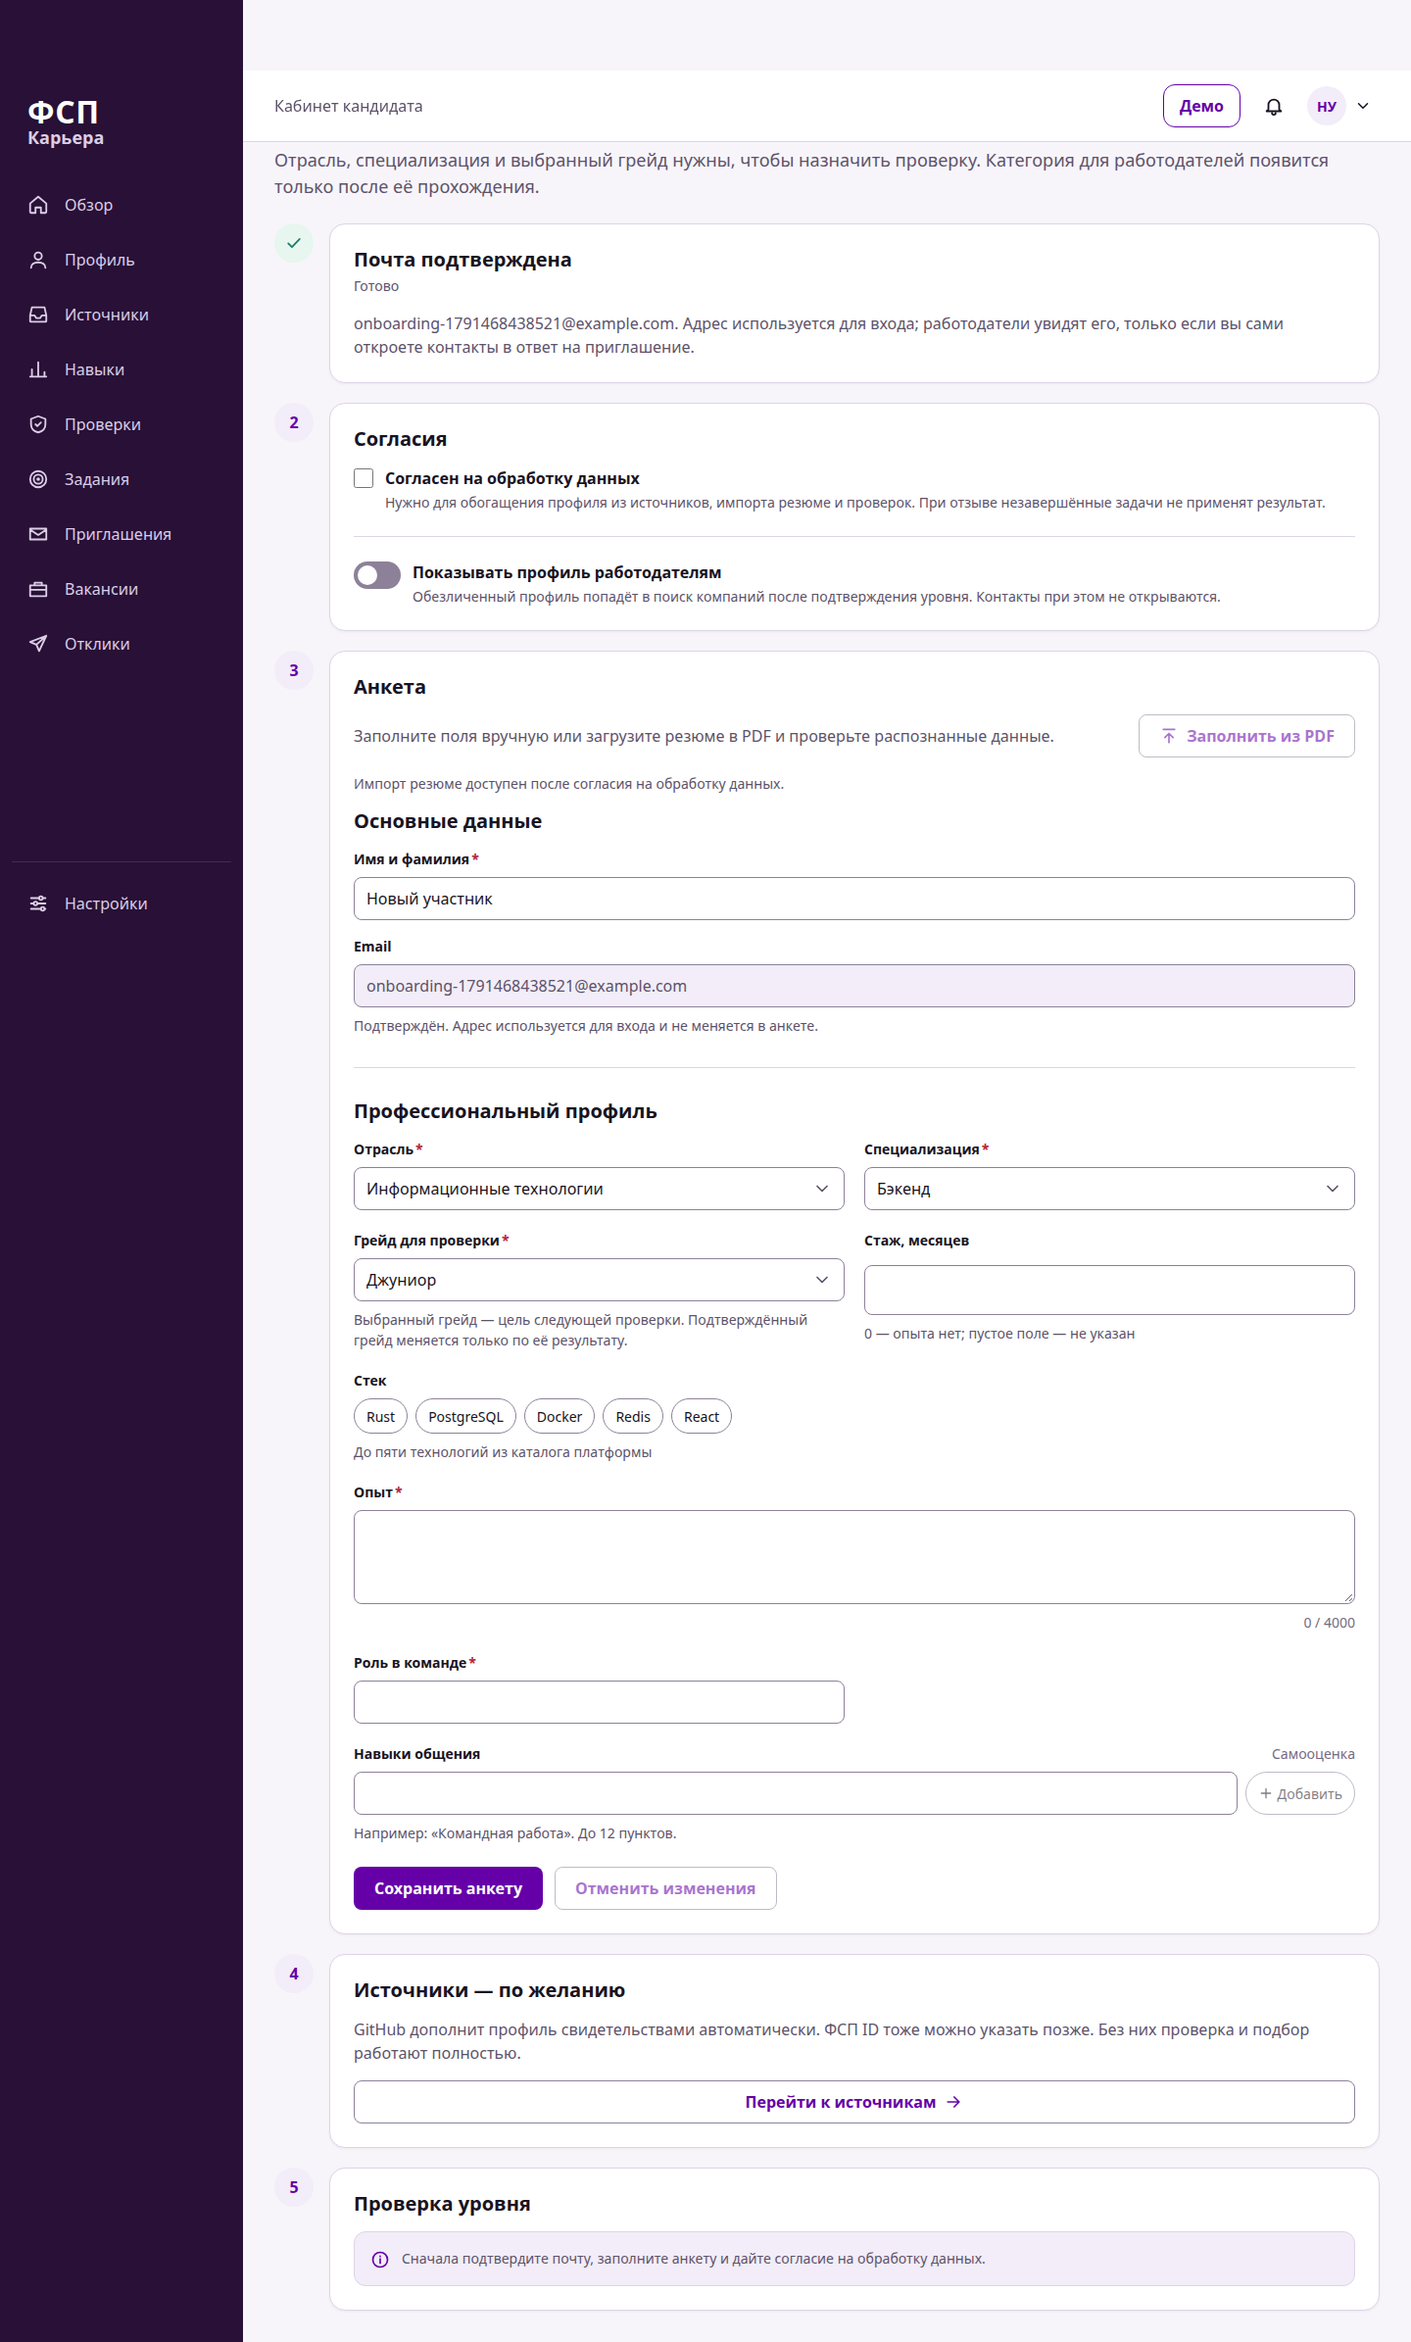
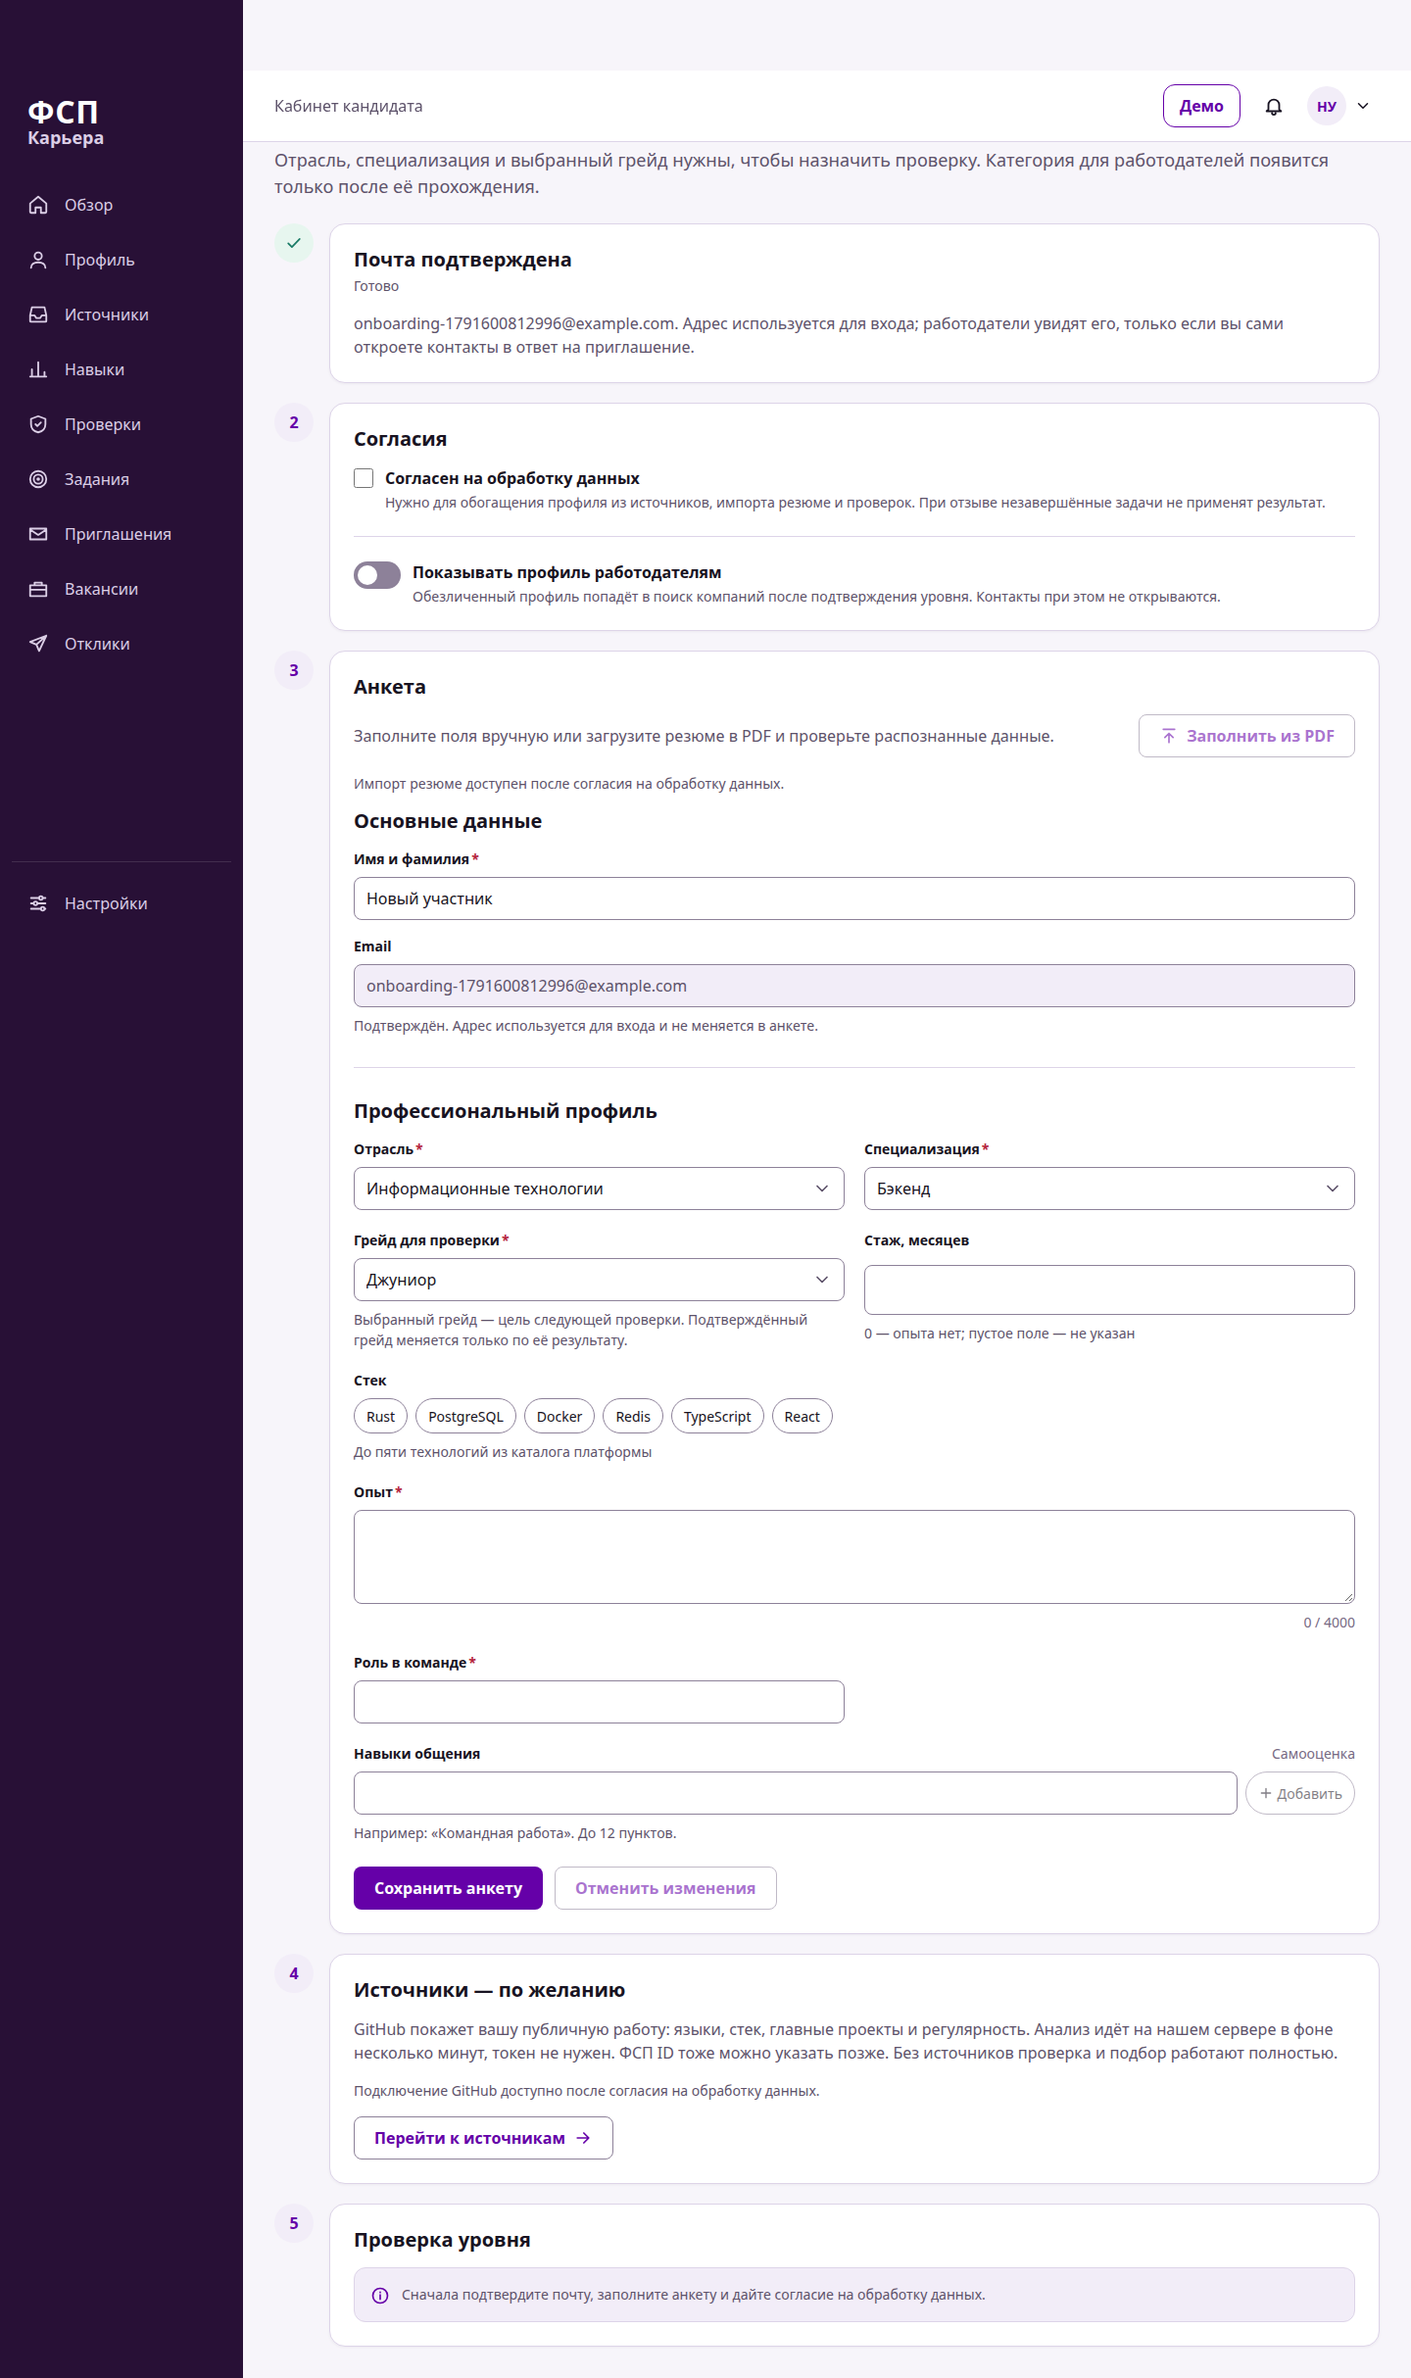
feat(frontend): add GitHub right from onboarding and summarize it on the overview
- The optional sources step connects GitHub by login or profile link once processing
  consent is given, says the analysis runs on our server without a token for a few
  minutes, and then links to the report; it is marked done when GitHub is connected.
- The overview shows the running analysis stage, then the index, band and ownership
  state instead of repository counts, and invites adding a login when absent.
- The sources form says the analysis runs in the background on our server.

diff --git a/frontend/src/pages/candidate-onboarding/onboarding-page.tsx b/frontend/src/pages/candidate-onboarding/onboarding-page.tsx
@@ -1,8 +1,10 @@
-import { useSuspenseQuery } from '@tanstack/react-query';
+import { useQuery, useSuspenseQuery } from '@tanstack/react-query';
 import { type ReactNode, useState } from 'react';
 import { useMeta } from '@/entities/meta';
 import { eligibilityReasonText, profileQuery } from '@/entities/profile';
 import { useScope } from '@/entities/session';
+import { mySourcesQuery, type Source } from '@/entities/source';
+import { ConnectSourceForm } from '@/features/connect-source';
 import { ConsentControls } from '@/features/consents';
 import { ProfileForm } from '@/features/edit-profile';
 import { ImportProfileDialog } from '@/features/profile-pdf';
@@ -25,11 +27,58 @@ function Step({ index, done, title, children }: { index: number; done: boolean; 
   );
 }
 
+/** GitHub can be added right here; the full report and FSP live on the sources page. */
+function SourcesStep({ consent, github, failed }: { consent: boolean; github: Source | undefined; failed: boolean }) {
+  const connected = github?.status === 'connected';
+  return (
+    <div className="stack">
+      <p className="muted">
+        GitHub покажет вашу публичную работу: языки, стек, главные проекты и регулярность. Анализ идёт на нашем сервере
+        в фоне несколько минут, токен не нужен. ФСП ID тоже можно указать позже. Без источников проверка и подбор
+        работают полностью.
+      </p>
+      {failed && (
+        <Callout tone="warning">
+          Не удалось загрузить источники. Подключить GitHub можно на странице источников.
+        </Callout>
+      )}
+      {connected ? (
+        <p className="row" style={{ margin: 0 }}>
+          <Icon name={github.activeJobId ? 'refresh' : 'checkCircle'} />
+          GitHub «{github.accountLabel}» подключён{github.activeJobId ? ', идёт анализ' : ''}.
+        </p>
+      ) : consent ? (
+        <div style={{ maxWidth: '32rem' }}>
+          <ConnectSourceForm
+            provider="github"
+            label="Ник или ссылка на профиль GitHub"
+            placeholder="octocat или https://github.com/octocat"
+            submitLabel="Подключить GitHub"
+            hint="Например: octocat, @octocat или https://github.com/octocat."
+          />
+        </div>
+      ) : (
+        <p className="small muted" style={{ margin: 0 }}>
+          Подключение GitHub доступно после согласия на обработку данных.
+        </p>
+      )}
+      <div>
+        <ButtonLink to="/candidate/sources" iconAfter="arrowRight">
+          {connected ? 'Открыть отчёт GitHub' : 'Перейти к источникам'}
+        </ButtonLink>
+      </div>
+    </div>
+  );
+}
+
 export function CandidateOnboardingPage() {
   useDocumentTitle('Анкета кандидата');
   const scope = useScope();
   const meta = useMeta();
   const { data: profile } = useSuspenseQuery(profileQuery(scope));
+  const sources = useQuery(mySourcesQuery(scope));
+  const github = sources.data?.items.find((item) => item.provider === 'github');
+  const githubConnected = github?.status === 'connected';
   const [importOpen, setImportOpen] = useState(false);
   const start = useStartAssessment();
   const eligibility = profile.assessmentEligibility;
@@ -69,16 +118,8 @@ export function CandidateOnboardingPage() {
             <ProfileForm profile={profile} submitLabel="Сохранить анкету" />
           </div>
         </Step>
-        <Step index={4} done={false} title="Источники — по желанию">
-          <div className="stack">
-            <p className="muted">
-              GitHub дополнит профиль свидетельствами автоматически. ФСП ID тоже можно указать позже. Без них проверка и
-              подбор работают полностью.
-            </p>
-            <ButtonLink to="/candidate/sources" iconAfter="arrowRight">
-              Перейти к источникам
-            </ButtonLink>
-          </div>
+        <Step index={4} done={githubConnected} title="Источники — по желанию">
+          <SourcesStep consent={profile.consents.processing} github={github} failed={sources.isError} />
         </Step>
         <Step index={5} done={form.assessmentPassed} title="Проверка уровня">
           {form.assessmentPassed ? (

diff --git a/frontend/src/pages/candidate-overview/overview-page.tsx b/frontend/src/pages/candidate-overview/overview-page.tsx
@@ -1,6 +1,7 @@
 import { useQuery, useSuspenseQuery } from '@tanstack/react-query';
 import { Link } from '@tanstack/react-router';
 import { AssessmentStatusChip, assessmentsQuery } from '@/entities/assessment';
+import { bandLabel } from '@/entities/github-insights';
 import { skillLabel, useMeta } from '@/entities/meta';
 import { blockerLabel, type Profile, profileQuery } from '@/entities/profile';
 import { FreshnessChip, TargetGradeBadge, VerifiedGradeBadge } from '@/entities/qualification';
@@ -106,7 +107,7 @@ function SkillsCard() {
 function sourceSummary(source: Source): { icon: IconName; text: string; busy: boolean } {
   if (source.provider === 'github') {
     if (source.status !== 'connected')
-      return { icon: 'minusCircle', text: 'Не подключён · необязательно', busy: false };
+      return { icon: 'minusCircle', text: 'Не подключён · добавьте ник, чтобы показать публичную работу', busy: false };
     const { found, processed, unavailable } = source.counts;
     if (source.activeJobId) {
       const analysis = source.github?.analysis;
@@ -116,6 +117,16 @@ function sourceSummary(source: Source): { icon: IconName; text: string; busy: bo
           ? `Идёт анализ · ${analysis.stage} · ${analysis.progress}%`
           : `Анализ продолжается · разобрано ${processed} из ${found} репозиториев`,
         busy: true,
+      };
+    }
+    const report = source.github?.report;
+    if (report) {
+      return {
+        icon: 'checkCircle',
+        text: `Индекс ${report.index.score} из 100 · ${bandLabel[report.index.band].toLowerCase()}${
+          source.github?.ownership.verified ? '' : ' · владение не подтверждено'
+        }`,
+        busy: false,
       };
     }
     return {

diff --git a/frontend/e2e/candidate.spec.ts b/frontend/e2e/candidate.spec.ts
@@ -154,6 +154,23 @@ test('UI-06 UI-07 GitHub connects by login with a public report; empty FSP histo
   await expect(page.getByText('Истории ФСП нет')).toBeVisible();
 });
 
+test('UI-06 a new candidate adds GitHub right from onboarding and opens the report', async ({ page }) => {
+  await resetMock('baseline');
+  const email = `github-${Date.now()}@example.com`;
+  await requestCode(page, email, 'candidate');
+  await page.getByLabel('Код из письма').fill(await latestCode(email));
+  await page.getByRole('button', { name: 'Подтвердить и войти' }).click();
+  await page.waitForURL('**/candidate/onboarding');
+  await expect(page.getByText('Подключение GitHub доступно после согласия на обработку данных.')).toBeVisible();
+  await page.getByLabel('Согласен на обработку данных').click();
+  await expect(page.getByLabel('Согласен на обработку данных')).toBeChecked();
+  await page.getByLabel('Ник или ссылка на профиль GitHub').fill('@octo-cat');
+  await page.getByRole('button', { name: 'Подключить GitHub' }).click();
+  await expect(page.getByText(/GitHub «octo-cat» подключён/)).toBeVisible();
+  await page.getByRole('link', { name: 'Открыть отчёт GitHub' }).click();
+  await expect(page.getByRole('heading', { name: 'Портрет разработчика' })).toBeVisible();
+});
+
 test('UI-06 a verified FSP record appears as a labelled demo source', async ({ page }) => {
   await resetMock('baseline');
   await signIn(page, ALEXEY, 'candidate');

diff --git a/frontend/src/pages/candidate-sources/sources-page.tsx b/frontend/src/pages/candidate-sources/sources-page.tsx
@@ -202,7 +202,7 @@ function GithubCard({ source, consent, processing }: { source: Source; consent: 
                 . Анализируются только публичные данные: репозитории, коммиты, pull request’ы, ревью и организации.
               </>
             ) : (
-              'Укажите ник или ссылку на профиль. Анализируются только публичные данные: репозитории, коммиты, pull request’ы, ревью и организации. Приватные репозитории не анализируются.'
+              'Укажите ник или ссылку на профиль. Анализируются только публичные данные: репозитории, коммиты, pull request’ы, ревью и организации, на нашем сервере и без токена. Анализ идёт в фоне несколько минут; приватные репозитории не анализируются.'
             )}
           </p>
           {connected && github && <OwnershipBlock github={github} processing={processing} consent={consent} />}

diff --git a/frontend/docs/SCREENS.md b/frontend/docs/SCREENS.md
@@ -38,7 +38,8 @@ Navigation: Обзор, Профиль, Источники, Навыки, Про
 ![Onboarding](screenshots/15-onboarding.png)
 
 Five steps with done markers: e-mail confirmed; consents (processing and publication as separate controls);
-questionnaire (the profile form, or «Заполнить из PDF» after processing consent); optional sources; level check.
+questionnaire (the profile form, or «Заполнить из PDF» after processing consent); optional sources, where GitHub can
+be connected right away by login or profile link after processing consent (then «Открыть отчёт GitHub»); level check.
 The last step offers «Подтвердить уровень» for the saved target when the server allows it, otherwise the reason
 (unsupported specialization, active attempt, cooldown, downgrade).
 
@@ -50,7 +51,8 @@ The last step offers «Подтвердить уровень» for the saved tar
   («Цель: Мидл») when it differs, profile freshness once a grade is verified, stack, «Скачать PDF», and the visibility line: the alias employers see, or the
   blockers that keep the profile out of search.
 - «Начните с анкеты» while the questionnaire is incomplete.
-- «Мои компетенции»: skills with state, confirmed level and evidence sources, plus a summary of GitHub and FSP.
+- «Мои компетенции»: skills with state, confirmed level and evidence sources, plus a summary of GitHub (the running
+  analysis stage, then the index, band and ownership state) and FSP.
 - «Следующий шаг» (shared with «Проверки»): continue the questionnaire, continue an active attempt, open an
   evaluating one, start a check for the target, or the reason why not, with the date the cooldown ends.
 - «История проверок»: the last three attempts.
